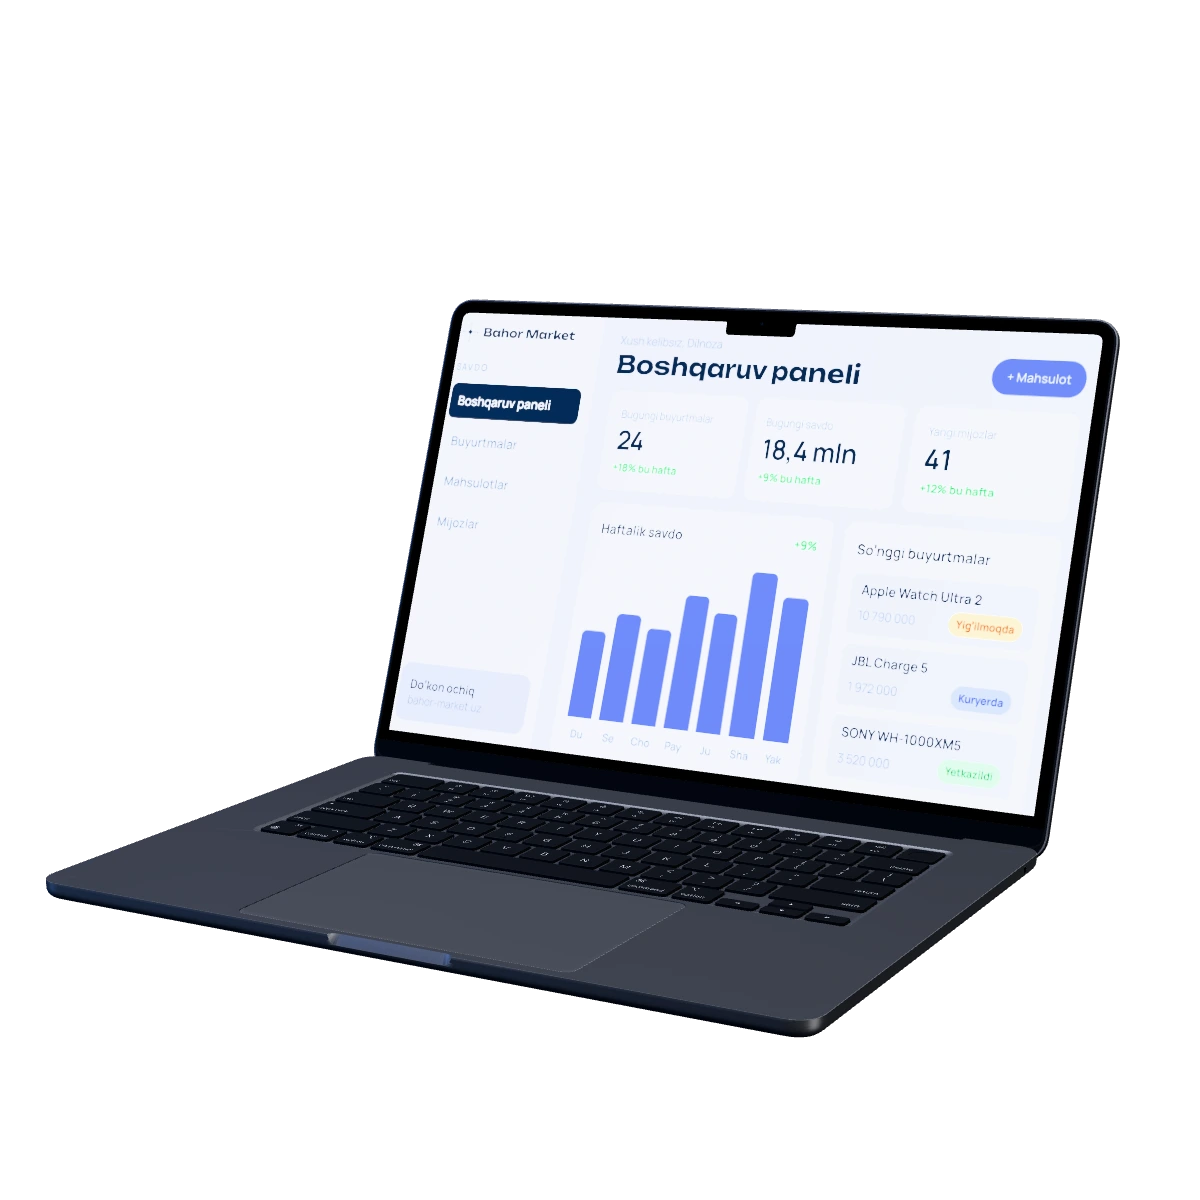
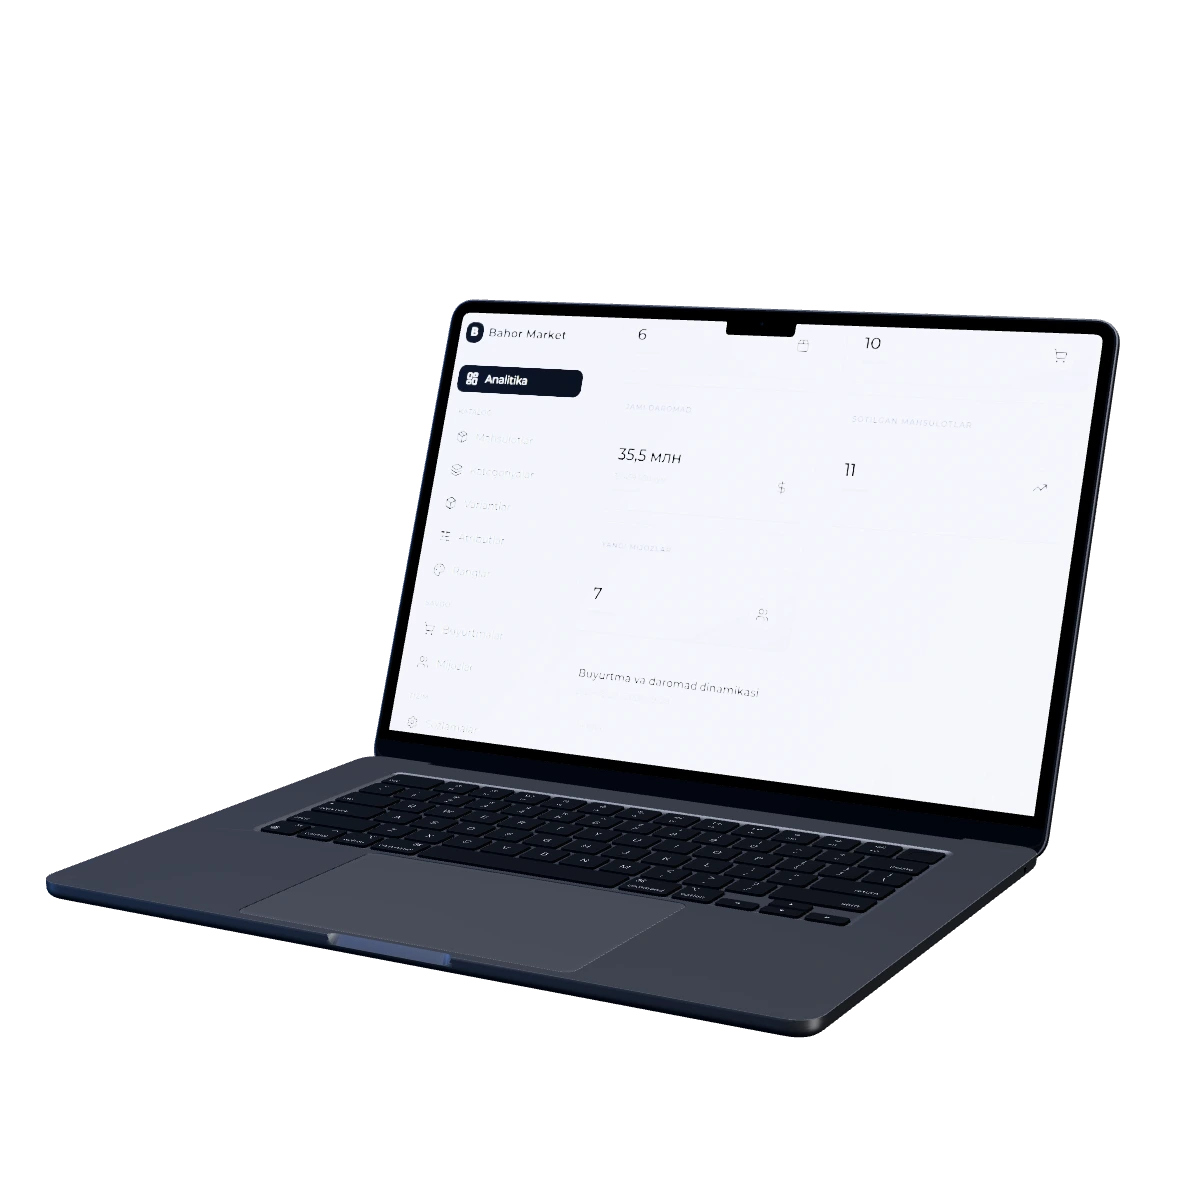
Photograph the real platform for the device screens
The screens the 3D devices wear were HTML mocks of the platform. They are
photographs of the platform itself now (owner, 2026-09-08: run the
e-commerce locally, put demo data in it, re-shoot the screens).

AvenirSoftt/E-COMMERCE runs locally under Docker — postgres+pgvector,
redis, meilisearch, minio, the FastAPI backend and the Next frontend —
seeded with the demo shop this landing advertises: the same watches,
speakers and headphones, the same photos out of public/shop, prices in
UZS, ru/uz names, six customers and ten paid orders across every status,
and the store renamed to Bahor Market. The repo's own seed fills the
catalogue with iPhones and MacBooks, which is the "Apple reseller"
reading rejected on 2026-09-07, so it is not used.

Shooting notes are in DESIGN.md — the viewports are deliberately smaller
than the textures they produce, because the admin is a monochrome layout
with generous whitespace and shooting it at 1600px to show it at 500
turns 14px text into grey mush.

Known limit, raised with the owner: even framed this way the analytics
page and the product editor read weakly at hero size. The storefront and
the order list survive well. Screens.tsx is kept as the fallback and the
reference for what each screen should say, but it no longer ships.

Claude-Session: https://claude.ai/code/session_01HY1ZDmMPH4CgmvWaAJezko

diff --git a/DESIGN.md b/DESIGN.md
@@ -299,10 +299,20 @@ soft shadow into the light ones. Both stages hold 60 fps in the test browser.
 
 ## Screens on the devices
 
-- `components/screens/Screens.tsx` holds HTML mocks of five platform screens
-  for the demo shop "Bahor Market": `home`, `checkout` (phone, 590×1278),
-  `dashboard`, `orders` (laptop, 1600×1000), `editor` (tablet, 1024×1366).
-  They use the landing's own fonts and palette so they read as one product.
+- **`public/screens/*.webp` are photographs of the real platform** (owner,
+  2026-09-08: run the e-commerce locally, put demo data in it, re-shoot the
+  screens). The `AvenirSoftt/E-COMMERCE` stack runs locally under Docker —
+  postgres+pgvector, redis, meilisearch, minio, the FastAPI backend and the
+  Next frontend — seeded with the demo shop the landing advertises, and
+  `C:\Users\mamut\tools\pw\ecom-shots.mjs` shoots the five pages. See
+  **Shooting the real platform** below.
+- `components/screens/Screens.tsx` and the `/dev/screens` route are the HTML
+  mocks those photographs replaced. They are kept as the fallback for when the
+  platform cannot be run, and as the reference for what each screen is meant to
+  say; **they no longer ship**. Do not edit them expecting the site to change.
+  They cover the same five screens for the demo shop "Bahor Market": `home`,
+  `checkout` (phone, 590×1278), `dashboard`, `orders` (laptop, 1600×1000),
+  `editor` (tablet, 1024×1366), in the landing's own fonts and palette.
 - **The goods in them are real** (owner, 2026-09-08: "devicelardagi rasmlarni
   hammasi haqiqiy rasm bo'lishi kerak, saytdan olib qo'y"). Photos, names,
   categories and prices come from the live instance of the platform,
@@ -339,6 +349,48 @@ soft shadow into the light ones. Both stages hold 60 fps in the test browser.
   (blocked in production), at `deviceScaleFactor: 2` and WebP 0.95. Regenerate
   them after editing the mocks — **and then `render.mjs` too**, because
   `public/renders/*.webp` are photographs of the models already wearing them.
+
+### Shooting the real platform
+
+`C:\Users\mamut\tools\pw\ecom-shots.mjs <outDir> <jwt>` photographs the running
+platform at `localhost:3010`. Bring it up from `D:\AvenirOS\E-COMMERCE`:
+
+- `docker network create dokploy-network` once — the committed compose file
+  expects it to exist and publishes no ports of its own (Dokploy puts a reverse
+  proxy in front), so a local `docker-compose.override.yml` maps frontend 3010,
+  API 8000, postgres 5433, MinIO 9000/9001, Meilisearch 7700. **3000 is the ERP
+  and 3002 is this landing.** Both that file and the root `.env` are local only.
+- `NEXT_PUBLIC_API_URL` must stay `/api`. Pointing it at `http://localhost:8000`
+  makes the browser call the API cross-origin and the backend answers
+  "Disallowed CORS origin"; the frontend has its own rewrite proxy for `/api`.
+  It is a build arg, so changing it means rebuilding the frontend image.
+- The demo shop is seeded by `scratchpad/seed_bahor.py`, copied into the
+  container. The repo's own `seed_database.py` fills the catalogue with
+  iPhones, MacBooks and iPads — the "Apple reseller" reading the owner
+  rejected on 2026-09-07 — so this one seeds the same watches, speakers and
+  headphones the landing already shows, priced in UZS, with the photos from
+  `public/shop/`. It also writes a PAID `PaymentTransaction` per order:
+  `_visible_orders_filter` hides an online-payment order until one exists, so
+  without them the admin list and the dashboard read zero. The store name is
+  set to "Bahor Market" through `PUT /api/admin/settings` (its `delivery.zones`
+  are plain strings, not objects).
+- Admin pages need a session. The frontend keeps its JWT in
+  `localStorage.token` and falls back to `POST /api/auth/refresh` when there is
+  no Telegram initdata, so the harness mints an HS256 token
+  (`{sub: "<user id>"}`) with the local `JWT_SECRET_KEY` instead of going
+  through the Telegram login.
+- **The viewports are smaller than the textures they produce** and some shots
+  are scrolled, for the same reason the mocks were typeset large: the admin is
+  a monochrome layout with generous whitespace, and shooting it at 1600px to
+  show it at 500 turns 14px text into grey mush. Only the aspect ratio matters
+  to the 3D material — phone 0.4617, laptop 1.600, tablet 0.750. The admin
+  shell scrolls an inner div, so `window.scrollTo` is a no-op there; the
+  harness finds the tallest scrollable element instead.
+- **Known limit:** even framed this way, the analytics page and the product
+  editor read weakly at hero size — they are low-contrast and low-density. The
+  storefront and the order list survive well. Raised with the owner
+  2026-09-08; the fix that helps both the landing and real users is more
+  density and colour in the admin itself.
 - `DeviceModel` clones each model's display material per instance and puts
   the capture on `map` and `emissiveMap` (`ScreenSpec` in
   `components/hero/DeviceModel.tsx`). Display material names: iPhone
